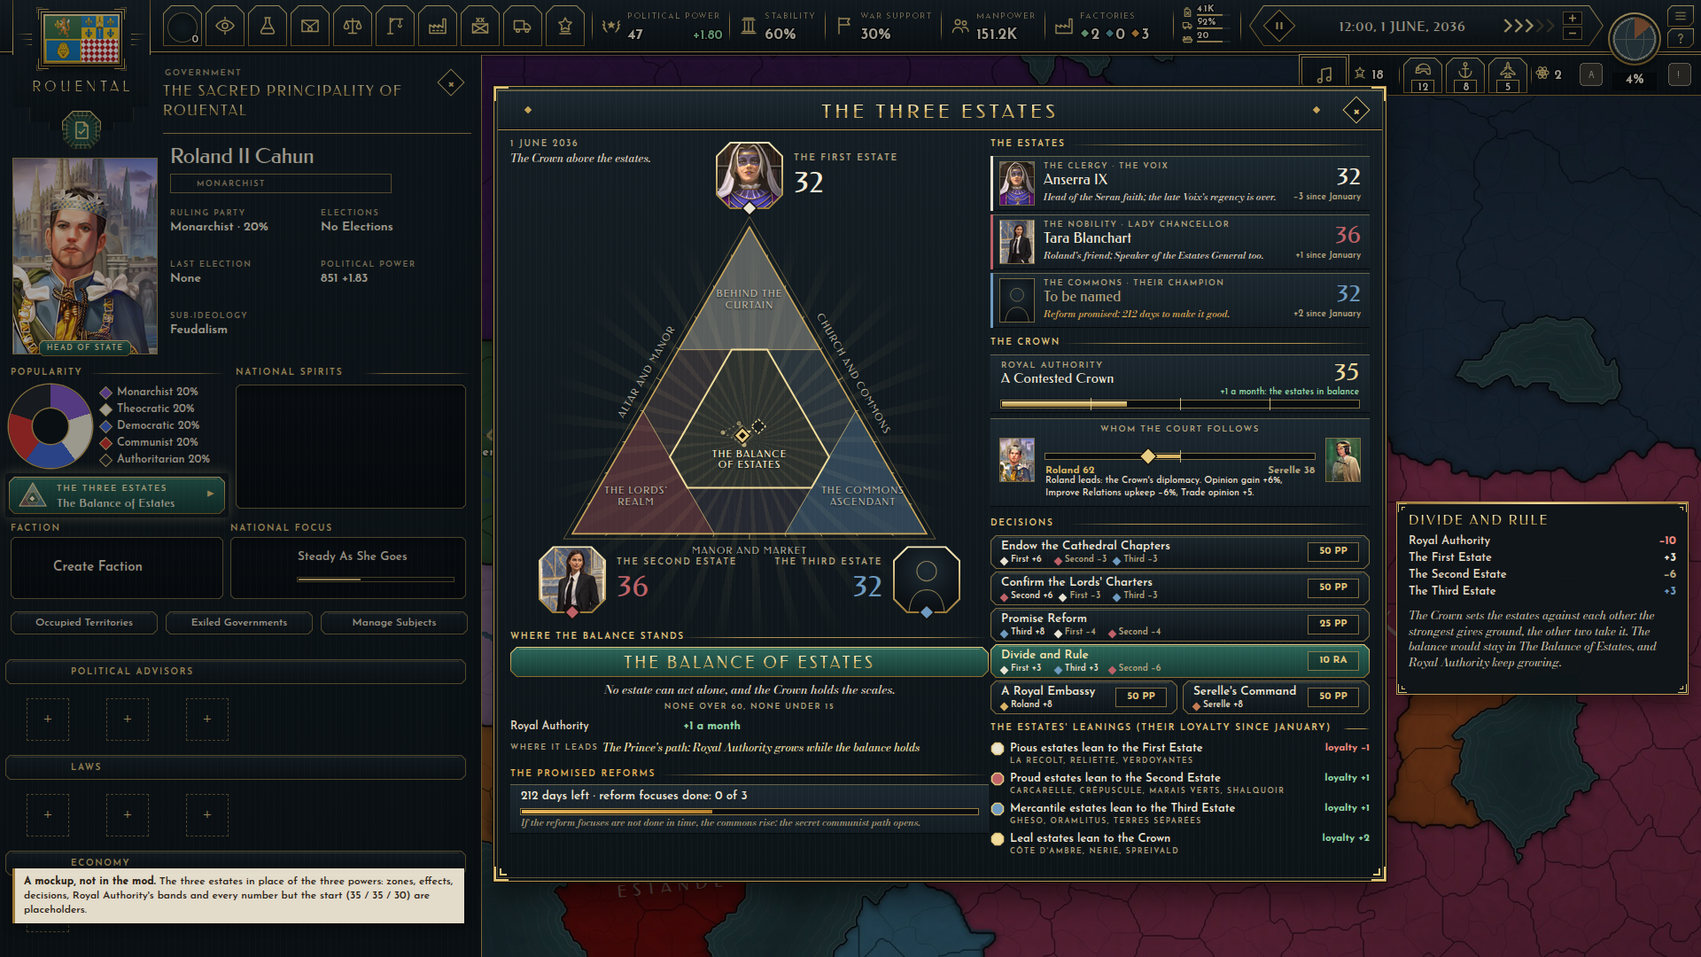
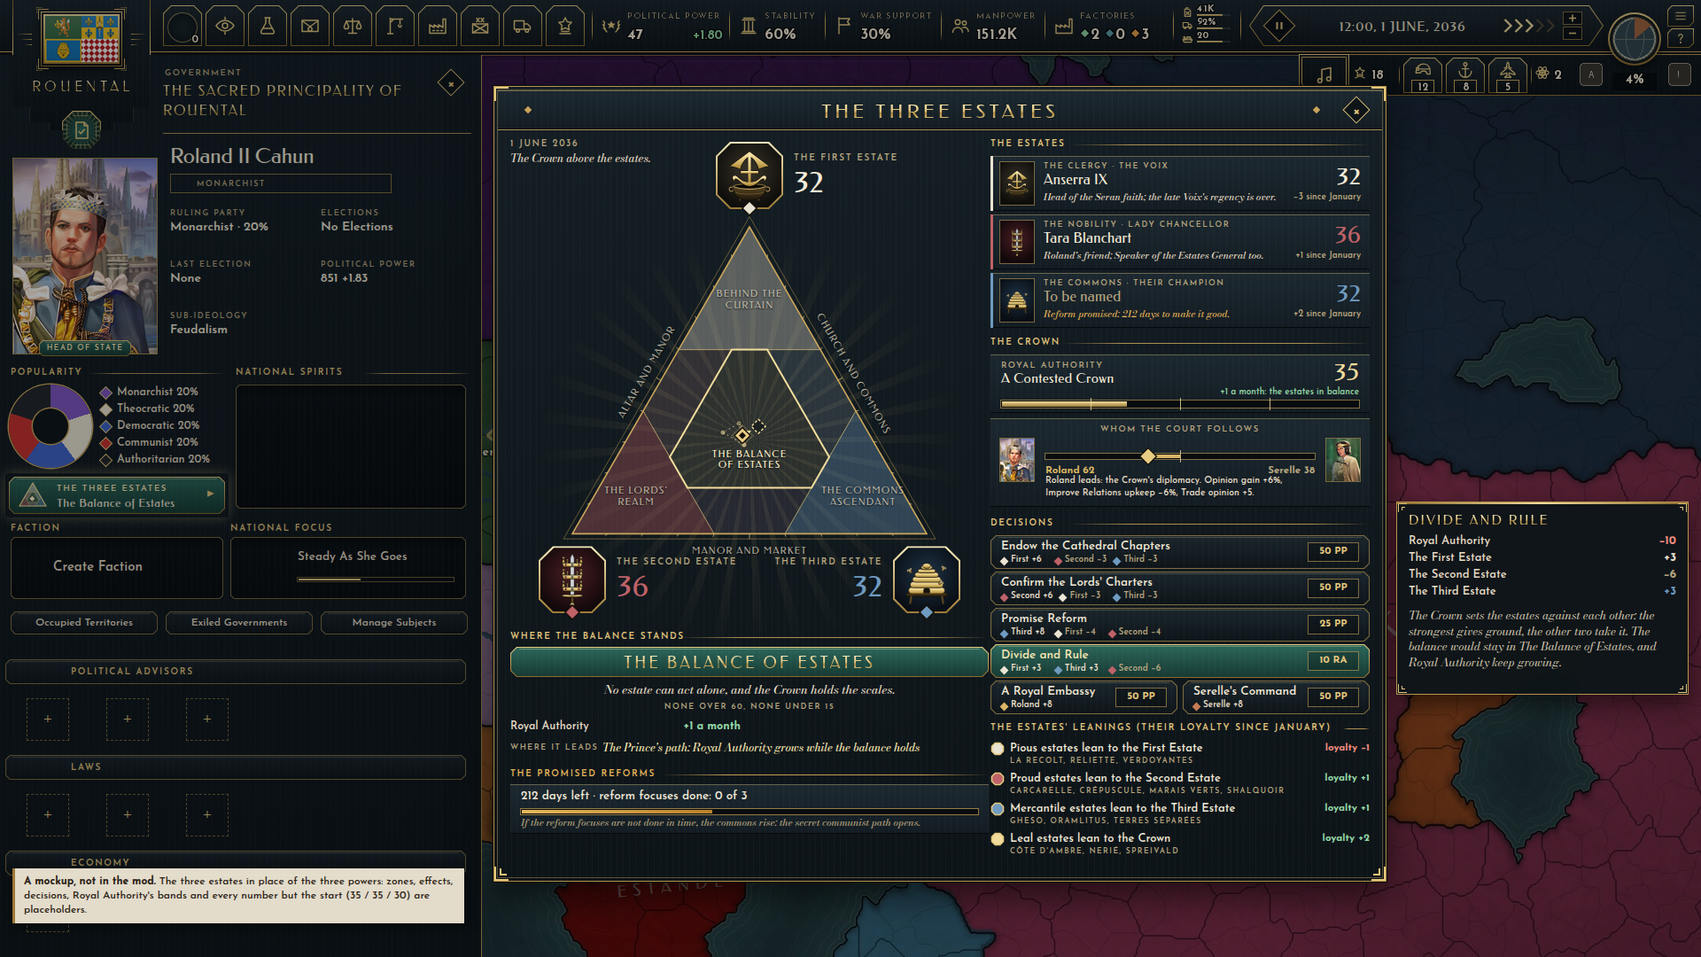
The three estates' symbols in place of portraits (mockup)
The author: "Instead of portraits, I think I'd prefer to use symbols for the three estates. A golden rogacina issuant
from a cauldron for the First Estate (the symbol of the faith,) three crowns pierced by a sword for the second estate,
and I don't know what the third estate could use." symbols.py draws them by hand (the rogacina traced from the
author's picture), with three candidates for the Third Estate (a beehive, a sheaf bound with a key, a mural crown with
wheat); the screens show them in the corners' medallions and the estates' cards; three_estates_symbols.png shows them
large.

Claude-Session: https://claude.ai/code/session_01TG83F4TvroUcXdi7eqNhMG

diff --git a/deco_ui/art/proposals/three_estates/symbols.py b/deco_ui/art/proposals/three_estates/symbols.py
@@ -1,0 +1,167 @@
+"""The three estates' symbols in place of their holders' portraits (the author, 2026-10-22: "Instead of portraits, I think
+I'd prefer to use symbols for the three estates. A golden rogacina issuant from a cauldron for the First Estate (the
+symbol of the faith,) three crowns pierced by a sword for the second estate, and I don't know what the third estate
+could use"). Drawn by hand as SVG on a 200 x 200 box: the rogacina traced from the author's picture of the faith's
+symbol; the cauldron, the crowns and sword and the Third Estate's three candidates Claude's.
+
+symbol(key, size) gives an <svg> of that size; GROUNDS the dark ground each sits on in a medallion.
+"""
+
+GOLD = ('<linearGradient id="sy_gold" x1="0" y1="0" x2="0" y2="1"><stop offset="0" stop-color="#FBEAB4"/>'
+        '<stop offset=".45" stop-color="#E3C77E"/><stop offset="1" stop-color="#A8842F"/></linearGradient>'
+        '<linearGradient id="sy_steel" x1="0" y1="0" x2="1" y2="0"><stop offset="0" stop-color="#9AA3AB"/>'
+        '<stop offset=".5" stop-color="#F2F4F5"/><stop offset="1" stop-color="#8A939B"/></linearGradient>'
+        '<linearGradient id="sy_bronze" x1="0" y1="0" x2="0" y2="1"><stop offset="0" stop-color="#5A4520"/>'
+        '<stop offset="1" stop-color="#1E170B"/></linearGradient>')
+INK = "#16110A"
+
+# the faith's rogacina, traced from the author's picture (200 x 186): the canopy with its two blades, the shaft, the
+# cross-bar and the hooked arms
+ROGACINA = [
+    "M100,2 L198,75 C181,76 163,80 148,90 C141,63 127,41 107,28 L93,28 C73,41 59,63 52,90 C37,80 19,76 2,75 Z",
+    "M93,20 H107 V166 H93 Z",
+    "M56,100 H144 V112 H56 Z",
+    ("M93,157 C76,157 57,149 44,135 C37,127 30,122 22,124 C15,126 13,135 18,141 L26,152 C23,145 24,139 29,138 "
+     "C37,137 45,145 53,152 C67,165 83,175 100,176 C117,175 133,165 147,152 C155,145 163,137 171,138 C176,139 177,145 "
+     "174,152 L182,141 C187,135 185,126 178,124 C170,122 163,127 156,135 C143,149 124,157 107,157 Z"),
+]
+
+
+def outlined(paths, fill, width=5, transform=""):
+    """the paths filled, with one dark outline round all of them (the outline drawn first, the fills over it)"""
+    t = f' transform="{transform}"' if transform else ""
+    under = "".join(f'<path d="{d}" fill="{INK}" stroke="{INK}" stroke-width="{width}" stroke-linejoin="round"/>' for d in paths)
+    over = "".join(f'<path d="{d}" fill="{fill}"/>' for d in paths)
+    return f"<g{t}>{under}{over}</g>"
+
+
+def first():
+    """a golden rogacina issuant from a cauldron: the arms' foot in the cauldron's mouth, the rim over it"""
+    s = 0.72
+    rog = outlined(ROGACINA, "url(#sy_gold)", 6, f"translate({100 - 100 * s:.1f},12) scale({s})")
+    mouth = '<ellipse cx="100" cy="140" rx="60" ry="9" fill="#0B0805" stroke="#C9A55A" stroke-width="2"/>'
+    body = ('<path d="M40,140 C40,176 70,190 100,190 C130,190 160,176 160,140 C140,148 120,150 100,150 C80,150 60,148 40,140 Z" '
+            f'fill="url(#sy_bronze)" stroke="{INK}" stroke-width="3"/>'
+            '<path d="M40,140 C60,148 80,150 100,150 C120,150 140,148 160,140" fill="none" stroke="#E3C77E" stroke-width="2.6"/>'
+            '<path d="M50,162 C70,170 130,170 150,162" fill="none" stroke="rgba(227,199,126,.55)" stroke-width="1.6"/>')
+    legs = "".join(f'<path d="M{x - 5},184 L{x + 5},184 L{x + 3},197 L{x - 3},197 Z" fill="url(#sy_bronze)" stroke="{INK}" '
+                   f'stroke-width="2"/>' for x in (66, 100, 134))
+    rings = "".join(f'<circle cx="{x}" cy="150" r="8" fill="none" stroke="#C9A55A" stroke-width="3"/>' for x in (34, 166))
+    return legs + rings + mouth + rog + body
+
+
+def crown(cx, top, w=72):
+    """an open crown: three fleurons and two pearls over a jewelled band; (back, front) so a blade can pass between"""
+    x0, x1 = cx - w / 2, cx + w / 2
+    band_y = top + 22
+    fl = ""
+    for i, x in enumerate((x0 + 4, cx - w / 4, cx, cx + w / 4, x1 - 4)):
+        if i % 2 == 0:   # a fleuron: a point with a ball
+            fl += f'<path d="M{x - 7},{band_y} L{x},{top + 4} L{x + 7},{band_y} Z"/><circle cx="{x}" cy="{top + 3}" r="4"/>'
+        else:            # a pearl on a shorter point
+            fl += f'<path d="M{x - 5},{band_y} L{x},{top + 12} L{x + 5},{band_y} Z"/><circle cx="{x}" cy="{top + 11}" r="3.2"/>'
+    back = (f'<g fill="url(#sy_gold)" stroke="{INK}" stroke-width="2.2" stroke-linejoin="round">{fl}</g>')
+    front = (f'<path d="M{x0},{band_y} H{x1} L{x1 - 3},{band_y + 14} H{x0 + 3} Z" fill="url(#sy_gold)" stroke="{INK}" '
+             f'stroke-width="2.4" stroke-linejoin="round"/>'
+             + "".join(f'<rect x="{x - 3}" y="{band_y + 4}" width="6" height="6" transform="rotate(45 {x} {band_y + 7})" '
+                       f'fill="{c}" stroke="{INK}" stroke-width="1"/>'
+                       for x, c in ((cx - w / 3, "#8E2E2E"), (cx, "#2E5E8E"), (cx + w / 3, "#8E2E2E"))))
+    return back, front
+
+
+def second():
+    """three crowns pierced by a sword, point upward: each crown's points behind the blade, its band in front"""
+    blade = (f'<path d="M100,6 L108,22 L108,158 L92,158 L92,22 Z" fill="url(#sy_steel)" stroke="{INK}" stroke-width="2.4" '
+             'stroke-linejoin="round"/><path d="M100,14 L100,156" stroke="rgba(22,17,10,.35)" stroke-width="1.2"/>')
+    hilt = (f'<path d="M60,158 C70,152 90,156 100,156 C110,156 130,152 140,158 C130,166 110,164 100,164 C90,164 70,166 60,158 Z" '
+            f'fill="url(#sy_gold)" stroke="{INK}" stroke-width="2.4"/>'
+            f'<rect x="95" y="164" width="10" height="22" fill="#5A4520" stroke="{INK}" stroke-width="2"/>'
+            f'<circle cx="100" cy="191" r="7" fill="url(#sy_gold)" stroke="{INK}" stroke-width="2.2"/>')
+    crowns = [crown(100, t) for t in (18, 62, 106)]
+    return "".join(b for b, _ in crowns) + blade + "".join(f for _, f in crowns) + hilt
+
+
+def third_beehive():
+    """a straw skep on its stand, three bees about it: the commons' industry"""
+    coils = ""
+    rows = [(150, 132), (128, 120), (108, 104), (90, 86), (74, 64), (62, 40)]   # (bottom y of the coil, its width)
+    for (y, w), (y2, _) in zip(rows, rows[1:] + [(48, 0)]):
+        h = y - y2
+        coils += (f'<rect x="{100 - w / 2}" y="{y2}" width="{w}" height="{h + 2}" rx="{h / 2 + 1}" fill="url(#sy_gold)" '
+                  f'stroke="{INK}" stroke-width="2.4"/>')
+    top = f'<ellipse cx="100" cy="50" rx="14" ry="9" fill="url(#sy_gold)" stroke="{INK}" stroke-width="2.4"/>'
+    door = f'<path d="M88,150 V138 C88,128 112,128 112,138 V150 Z" fill="#16110A"/>'
+    stand = (f'<rect x="26" y="150" width="148" height="12" rx="3" fill="url(#sy_bronze)" stroke="{INK}" stroke-width="2.4"/>'
+             f'<path d="M44,162 L40,186 M156,162 L160,186" stroke="#5A4520" stroke-width="7" stroke-linecap="round"/>')
+
+    def bee(x, y, r):
+        return (f'<g transform="translate({x},{y}) rotate({r})"><ellipse cx="-4" cy="-6" rx="6" ry="4" fill="rgba(251,234,180,.75)" '
+                f'stroke="{INK}" stroke-width="1"/><ellipse cx="4" cy="-6" rx="6" ry="4" fill="rgba(251,234,180,.75)" '
+                f'stroke="{INK}" stroke-width="1"/><ellipse cx="0" cy="0" rx="5" ry="8" fill="url(#sy_gold)" stroke="{INK}" '
+                f'stroke-width="1.6"/><path d="M-4.5,-1 H4.5 M-4,3 H4" stroke="{INK}" stroke-width="1.6"/></g>')
+    return stand + coils + top + door + bee(40, 70, -30) + bee(160, 62, 25) + bee(150, 112, 50)
+
+
+def ear(x, y, angle, length=56):
+    """an ear of wheat on its stalk, rising from (x, y) at an angle (0 = straight up)"""
+    grains = ""
+    for i in range(6):
+        gy = -length + 10 + i * 8
+        for side in (-1, 1):
+            grains += (f'<ellipse cx="{side * 4.5}" cy="{gy}" rx="4" ry="7" transform="rotate({side * 22} {side * 4.5} {gy})" '
+                       f'fill="url(#sy_gold)" stroke="{INK}" stroke-width="1.4"/>')
+    tip = f'<ellipse cx="0" cy="{-length + 2}" rx="3.5" ry="7" fill="url(#sy_gold)" stroke="{INK}" stroke-width="1.4"/>'
+    stalk = f'<path d="M0,0 L0,{-length + 12}" stroke="#A8842F" stroke-width="3"/>'
+    return f'<g transform="translate({x},{y}) rotate({angle})">{stalk}{grains}{tip}</g>'
+
+
+def third_sheaf():
+    """a sheaf of wheat bound with a key: the fields and the towns"""
+    stalks = ""
+    for a in (-30, -18, -6, 6, 18, 30):     # the stalks below the band, fanning out to the ground
+        stalks += (f'<path d="M100,118 L{100 + 70 * __import__("math").sin(__import__("math").radians(a)):.1f},'
+                   f'{118 + 70 * __import__("math").cos(__import__("math").radians(a)):.1f}" stroke="#C9A55A" '
+                   f'stroke-width="4" stroke-linecap="round"/>')
+    ears = "".join(ear(100, 118, a, 92) for a in (-34, -20, -7, 7, 20, 34)) + ear(100, 118, 0, 100)
+    band = f'<rect x="80" y="110" width="40" height="14" rx="3" fill="url(#sy_bronze)" stroke="{INK}" stroke-width="2.4"/>'
+    key = (f'<g transform="rotate(-18 100 132)"><circle cx="46" cy="132" r="13" fill="none" stroke="{INK}" stroke-width="9"/>'
+           f'<circle cx="46" cy="132" r="13" fill="none" stroke="url(#sy_gold)" stroke-width="5"/>'
+           f'<path d="M58,128 H160 V136 H58 Z" fill="url(#sy_gold)" stroke="{INK}" stroke-width="2.2"/>'
+           f'<path d="M140,136 V150 H148 V144 H154 V150 H160 V136 Z" fill="url(#sy_gold)" stroke="{INK}" stroke-width="2.2"/></g>')
+    return stalks + ears + band + key
+
+
+def third_mural():
+    """a mural crown, the towns' crown, two ears of wheat crossed behind it: the burghers and the peasants"""
+    ears = ear(128, 196, -27, 150) + ear(72, 196, 27, 150)
+    merlons = "".join(f'<rect x="{x}" y="92" width="22" height="20" fill="url(#sy_gold)" stroke="{INK}" stroke-width="2.4"/>'
+                      for x in (44, 89, 134))
+    wall = (f'<path d="M38,110 H162 V162 H38 Z" fill="url(#sy_gold)" stroke="{INK}" stroke-width="2.6"/>'
+            + "".join(f'<path d="M38,{y} H162" stroke="rgba(22,17,10,.55)" stroke-width="1.4"/>' for y in (127, 144))
+            + "".join(f'<path d="M{x},{y0} V{y0 + 17}" stroke="rgba(22,17,10,.55)" stroke-width="1.4"/>'
+                      for y0, xs in ((110, (64, 100, 136)), (127, (82, 118)), (144, (64, 136))) for x in xs)
+            + f'<path d="M89,162 V142 C89,131 111,131 111,142 V162 Z" fill="#16110A"/>'
+            + "".join(f'<path d="M{x},118 V130" stroke="#16110A" stroke-width="5" stroke-linecap="round"/>' for x in (54, 146)))
+    return ears + merlons + wall
+
+
+DRAW = {"first": first, "second": second, "third": third_beehive,
+        "third_beehive": third_beehive, "third_sheaf": third_sheaf, "third_mural": third_mural}
+GROUNDS = {"first": ("#3A352A", "#0E0D0A"), "second": ("#4A1E24", "#12080A"), "third": ("#1E3347", "#090E14")}
+THIRD = [("third_beehive", "A beehive", "the commons' industry: many hands, one hive (Claude's first choice)"),
+         ("third_sheaf", "A sheaf bound with a key", "the fields and the towns: the peasants' wheat, the burghers' keys"),
+         ("third_mural", "A mural crown and wheat", "the towns' crown beside the nobles' three, the peasants' wheat behind it")]
+
+
+def symbol(key, size, pad=0.08):
+    """the symbol as an <svg> of size x size px, a margin of `pad` all round"""
+    m = 200 * pad
+    return (f'<svg width="{size}" height="{size}" viewBox="{-m} {-m} {200 + 2 * m} {200 + 2 * m}" style="display:block">'
+            f'<defs>{GOLD}</defs>{DRAW[key]()}</svg>')
+
+
+def medallion(key, size):
+    """the symbol on its estate's ground: a dark radial wash in the estate's colour"""
+    a, b = GROUNDS[key.split("_")[0] if key.startswith("third") else key]
+    return (f'<div style="position:absolute;left:0;top:0;width:{size}px;height:{size}px;'
+            f'background:radial-gradient(circle at 50% 42%,{a},{b} 78%)">{symbol(key, size)}</div>')

diff --git a/deco_ui/art/proposals/three_estates/make.py b/deco_ui/art/proposals/three_estates/make.py
@@ -14,6 +14,9 @@ Three screens:
   three_estates_lords_realm.png  1 March 2037: the Second Estate over 60, the Lords' Realm: Royal Authority falling, the
                                  Court behind Serelle, the governorates under 40 that would break away
   three_estates_zones.png        the seven zones, Royal Authority and the Court's favour (a sheet for the author)
+  three_estates_symbols.png      the estates' symbols large, and the Third Estate's three candidates
+The estates are shown by their symbols, not their holders' portraits (the author: "Instead of portraits, I think I'd
+prefer to use symbols for the three estates": symbols.py).
 Not in the mod; the zones' names and effects, the decisions, Royal Authority's bands and every number but the start
 are placeholders; the Third Estate's champion is the author's to name.
 
@@ -28,8 +31,10 @@ HERE = os.path.dirname(os.path.abspath(__file__))
 sys.path.insert(0, os.path.join(HERE, "..", "next_screens"))
 sys.path.insert(0, os.path.join(HERE, "..", "governorates"))
 from deco import (CREAM, CREAM2, GILT, LABEL, NEG, POS, backdrop, band, box, close_browser, fade_rule, header,  # noqa: E402
-                  label, lit_bar, bar, note, portrait, render, silhouette, text, title, tooltip, value, well, window)
+                  label, lit_bar, bar, note, portrait, render, text, title, tooltip, value, well, window)
 import realm as RM  # noqa: E402  (the governorates' placeholder estates)
+sys.path.insert(0, HERE)
+import symbols as SY  # noqa: E402  (the estates' symbols, in place of their holders' portraits)
 
 
 def load(name, path):
@@ -220,10 +225,13 @@ def corners_of(T, shares):
 
 
 def picture(k, w, h):
-    pic = HOLDERS[k][2]
-    if not pic:
-        return silhouette(0, 0, w, h)          # the Third Estate's champion: the author's to come
-    return portrait(pic, 0, 0, w, h, "object-position:50% 20%")
+    """the estate's symbol on its ground (the author, 2026-10-22: "Instead of portraits, I think I'd prefer to use
+    symbols for the three estates"): the Third Estate's the beehive, the first of Claude's candidates"""
+    a, b = SY.GROUNDS[k]
+    n = min(w, h)
+    return (f'<div style="position:absolute;left:0;top:0;width:{w}px;height:{h}px;'
+            f'background:radial-gradient(circle at 50% 42%,{a},{b} 78%)"><div style="position:absolute;left:{(w - n) / 2}px;'
+            f'top:{(h - n) / 2}px">{SY.symbol(k, n)}</div></div>')
 
 
 def estate_cards(y, shares, since, mission=None):
@@ -520,12 +528,49 @@ def zones_sheet():
     return body, w, h
 
 
+def symbols_sheet():
+    """the three symbols large in the corners' medallions, the Third Estate's candidates under them"""
+    w, h = 1300, 980
+    body = box(0, 0, w, h, "background:#0B1014")
+    body += window(16, 16, w - 32, h - 32)
+    body += header(22, 22, w - 44, 44, "The Three Estates: their symbols", 22)
+    lines = {"first": ("A golden rogacina issuant from a cauldron", "The symbol of the faith (the author's), over the "
+                       "cauldron's mouth"),
+             "second": ("Three crowns pierced by a sword", "The author's: the crowns gold, the sword steel"),
+             "third": ("A beehive", "No symbol yet: Claude's first choice of the three below")}
+    for i, k in enumerate(ORDER):
+        cx, cy = 240 + i * 410, 270
+        body += TP.octo(cx, cy, 140, picture(k, 276, 276))
+        body += box(cx - 9, cy + 131, 18, 18, f"transform:rotate(45deg);background:{rgba(ESTATES[k][2], 1)};"
+                    "box-shadow:0 0 0 2px #16110A")
+        body += label(cx - 190, cy + 168, ESTATES[k][0], 11, LABEL, w=380, align="center")
+        body += title(cx - 200, cy + 186, lines[k][0], 14.5, w=400, align="center", track=.06)
+        body += text(cx - 190, cy + 214, lines[k][1], 13, CREAM2, w=380, align="center", font="bod", weight=500)
+    y = 540
+    body += label(60, y, "The Third Estate: three candidates", 10, GILT) + fade_rule(330, y + 5, w - 60)
+    for i, (key, name, why) in enumerate(SY.THIRD):
+        cx = 240 + i * 410
+        a, b = SY.GROUNDS["third"]
+        body += (f'<div class="a" style="left:{cx - 100}px;top:{y + 30}px;width:200px;height:200px;'
+                 f'background:radial-gradient(circle at 50% 42%,{a},{b} 78%);box-shadow:0 0 0 1px rgba(201,165,90,.6)">'
+                 f'{SY.symbol(key, 200)}</div>')
+        for top, n in ((y + 30, 38), (y + 78, 76)):   # at the sizes the window shows them
+            body += (f'<div class="a" style="left:{cx + 116}px;top:{top}px;width:{n}px;height:{n}px;'
+                     f'background:radial-gradient(circle at 50% 42%,{a},{b} 78%);box-shadow:0 0 0 1px rgba(201,165,90,.5)">'
+                     f'{SY.symbol(key, n)}</div>')
+        body += title(cx - 190, y + 250, name, 16, w=380, align="center", track=.08)
+        body += text(cx - 190, y + 276, why, 12.5, CREAM2, w=380, align="center", font="bod", weight=500, lh=1.3)
+    return body, w, h
+
+
 def main():
     outs = []
     for which in SCREENS:
         outs.append(render(window_screen(which), os.path.join(HERE, f"three_estates_{which}.png")))
     body, w, h = zones_sheet()
     outs.append(render(body, os.path.join(HERE, "three_estates_zones.png"), w=w, h=h))
+    body, w, h = symbols_sheet()
+    outs.append(render(body, os.path.join(HERE, "three_estates_symbols.png"), w=w, h=h))
     close_browser()
     print("\n".join(outs))
 

diff --git a/deco_ui/art/proposals/three_estates/README.md b/deco_ui/art/proposals/three_estates/README.md
@@ -13,6 +13,7 @@ mockup." The plan and the author's words in full: `docs/ROUENTAL_ESTATES.md`.
 |---|---|
 | `three_estates_window.png` | 1 June 2036. The politics screen with the Three Estates' button where the three powers' sits, and its window. The triangle: the First Estate (the clergy, Anserra IX) at the top, the Second (the nobility, Tara Blanchart) bottom left, the Third (the commons, their champion to be named) bottom right; the marker in the Balance of Estates. Beside it: the estates, the Crown (Royal Authority 35 and rising; whom the Court follows, Roland 62, his diplomatic bonuses), the decisions, the estates' leanings. Under the triangle the Promised Reforms running (212 days left). Divide and Rule hovered: the strongest estate gives ground |
 | `three_estates_lords_realm.png` | 1 March 2037. The Second Estate at 63: the Lords' Realm. Royal Authority 12 and falling; the Court behind Serelle (her army bonuses); in place of the decisions, the realm's map with the five governorates under 40 loyalty that would break away, numbered on their seals |
+| `three_estates_symbols.png` | The three estates' symbols, in place of their holders' portraits (the author: "Instead of portraits, I think I'd prefer to use symbols for the three estates. A golden rogacina issuant from a cauldron for the First Estate (the symbol of the faith,) three crowns pierced by a sword for the second estate, and I don't know what the third estate could use"): the rogacina traced from the author's picture, rising from a bronze cauldron; three gold crowns on a steel sword; for the Third Estate three candidates, a beehive (in the screens), a sheaf of wheat bound with a key, a mural crown with wheat; each at the sizes the window draws them |
 | `three_estates_zones.png` | A sheet for the author: the seven zones, where each begins, what each does and where it leads; Royal Authority's bands and how it moves; what Roland and Serelle each give when they lead |
 
 **How it reads.** The three estates' shares make 100, so the balance is one point in the triangle. An estate of 60 or
@@ -43,6 +44,10 @@ step, as the governorates' loyalty bar), moved monthly by the zone (`on_monthly_
 decision (`days_mission_timeout`, its `timeout_effect` the uprising); the Lords' Realm releases the governorates under
 the line as subjects of a level of the mod's own (the base game's `autonomy_integrated_puppet` asks for a DLC and bars
 a fascist overlord with a fascist subject), each won back by a decision.
+
+The estates are shown by their symbols (`symbols.py`, drawn by hand as SVG: the rogacina from the author's picture;
+the cauldron, the crowns and sword and the Third Estate's candidates Claude's), on a dark ground in each estate's colour,
+in the corners' medallions and the estates' cards; their holders' names stay in the cards.
 
 How they are made: `make.py` draws with the pieces of `../next_screens/deco.py` and the three powers' mockup (its
 triangle and politics screen, given the estates), the realm's map from `scripts/rouental_realm.py`.

diff --git a/dist/open_questions.md b/dist/open_questions.md
@@ -21,6 +21,7 @@ eleven Couronneterre's in name, and its spelling (36 then); Rouental's 24 cities
 | 35 | the three powers and the governorates, in game since 2026-10-21, night (bare bones), seen 2026-10-22 ("Looks great so far"): the map's clicks redone (the game clicks a button by its box: now rectangles that tile each governorate), the marker in its place, the Open button's text dark. Click anywhere in a governorate: does it pick that one? The zones' names and effects and the decisions are still Claude's; the other five attitudes' sides later | in game |
 | 36 | Guedelon's ruler: its page names it "The Council of Six", but its portrait says Conseil des Sept (the Council of Seven, you said). Change the name on the page (it comes in with your next export), or tell me what it should be | the Gazetteer |
 | 38 | the three estates (`deco_ui/art/proposals/three_estates/`): the Third Estate's champion (a placeholder: your name for them, and whether the reformer and the secret communist are one person); the mockup's placeholders (the zones, Royal Authority's numbers, the Court's bonuses, the decisions, the breaking line at loyalty 40) | the mockup |
+| 40 | the Third Estate's symbol: a beehive (in the mockup), a sheaf of wheat bound with a key, or a mural crown with wheat (`deco_ui/art/proposals/three_estates/three_estates_symbols.png`), or one of yours | the mockup |
 | 39 | a French word for the governorates: *gouvernement* (the old French provinces' own word for a governor's province) or *généralité* (the Crown's districts under an intendant); or keep "governorate" | |
 | 33 | the groups' way back: "Be prepared for the posibility of returning to how it currently is though": the map before them is kept (`work/pre_groups_1021/`, and the commit before) until you say they stay | |
 

diff --git a/docs/ROUENTAL_ESTATES.md b/docs/ROUENTAL_ESTATES.md
@@ -63,7 +63,15 @@ focuses are not done when it runs out, the uprising follows.
 "Go ahead with the mockup": `deco_ui/art/proposals/three_estates/` (its README has what is the author's and what is
 Claude's placeholder).
 
+**Symbols, not portraits** (the author, the same day): "Instead of portraits, I think I'd prefer to use symbols for
+the three estates. A golden rogacina issuant from a cauldron for the First Estate (the symbol of the faith,) three crowns
+pierced by a sword for the second estate, and I don't know what the third estate could use." Drawn for the mockup
+(`deco_ui/art/proposals/three_estates/symbols.py`, the rogacina traced from the author's picture); for the Third Estate
+three candidates of Claude's: a beehive, a sheaf of wheat bound with a key, a mural crown with wheat.
+
 ## Open
+
+- The Third Estate's symbol: the beehive in the mockup, or the sheaf and key, or the mural crown, or the author's own.
 
 - The word for the governorates: the author asks whether French has a better one (Claude's suggestions in the chat of
   2026-10-22: *gouvernement*, the old French provinces' own; *généralité*, the Crown's districts under an intendant).
